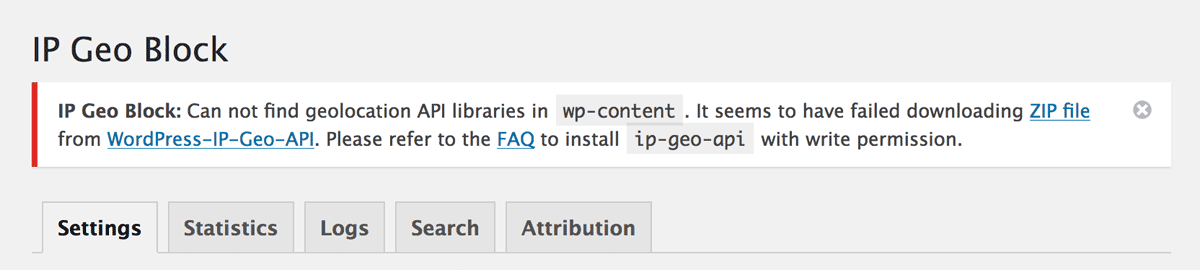
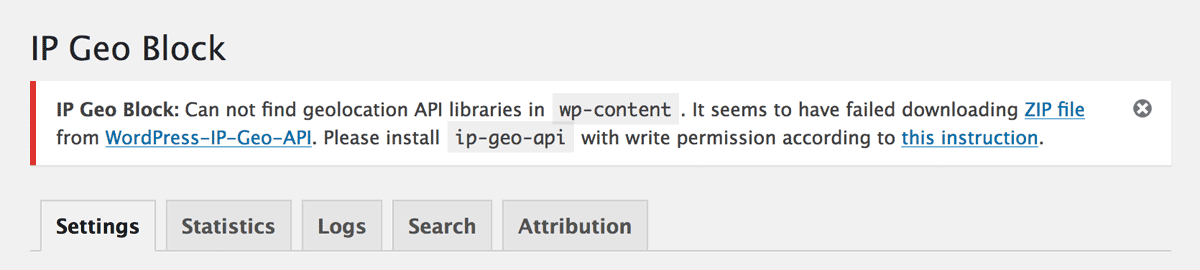
Update codex.

diff --git a/_codex/02. FAQ/04/how-to-fix-permission-troubles.md b/_codex/02. FAQ/04/how-to-fix-permission-troubles.md
@@ -10,40 +10,60 @@ This plugin must have read/write permission at the certain places outside of
 the plugin folder. But in some cases, you might find the error message related 
 to the permission because of your server's security configurations.
 
-When you meet those cases, you have to configure these places by your own hand.
+When you meet those cases, you have to configure something related to the 
+WordPress file system by your own hand.
 
 ### Geolocation API library ###
+
+#### Configuring file system ####
+
+If your host is running under a special installation setup involving symlinks,
+or certain installations with a PHP FTP extension, you'll see the following
+error message when you install and activate this plugin for the first time:
+
+![Error of Filesystem]({{ '/img/2017-06/FilesystemError.png' | prepend: site.baseurl }}
+ "Error of Filesystem"
+)
+
+In this case, as of the instruction in [this document at codex][WP_FILESYS], 
+you have to configure some symbols in your `wp-config.php` something like this:
+
+{% highlight ruby %}
+define( 'FTP_HOST', 'http://example.com/' );
+define( 'FTP_USER', 'username' );
+define( 'FTP_PASS', 'password' );
+{% endhighlight %}
+
+If you have some reasons you can't do this, please follow the next instruction.
+
+#### Installing Geolocation API library ####
+
+When you'll see the following when you jump to the option page of this plugin:
 
 ![Error of IP Geo API]({{ '/img/2016-09/ErrorGeoAPI.png' | prepend: site.baseurl }}
  "Error of IP Geo API"
 )
 
-Although this plugin is designed to work properly without geolocation databases
-for [Maxmind][Maxmind] and [IP2Location][IP2Location] on your server by using 
-3rd party's free REST API services, it is highly recommended to install 
-geolocation API library named [IP-Geo-API][GitGeoAPI] to handle IP address and 
-its country code.
-
-So when you install this plugin for the first time, this plugin would try to 
-install `ip-geo-api` into one of the following folders:
+In this case, you should install `ip-geo-api` that includes geolocation 
+API library named [IP-Geo-API][GitGeoAPI] for [Maxmind][Maxmind] and 
+[IP2Location][IP2Location] under one of the following folders:
 
 1. `/wp-content/`
 2. `/wp-content/uploads/`
 3. `/wp-content/plugins/ip-geo-block/`
 
-But installing `ip-geo-api` could be failed because of the security policy of 
-your server.
-
-In such a case, you can download the [ZIP file][GitGeoAPIZIP] manually and 
-upload `ip-geo-api` in the unzipped folder onto the above 1. or 2. **with 
-proper permission**.
+You can download the [ZIP file][GitGeoAPIZIP] and upload `ip-geo-api` in the 
+unzipped folder onto the above 1. or 2 **with a proper permission** using FTP.
 
 [![IP-Geo-API]({{ '/img/2016-09/GeoLocationAPI.png' | prepend: site.baseurl }}
 )][GitGeoAPI]
 
-The 3. is not recommended. Because at every time this plugin is updated, the 
-geolocation database files will be removed. So in this case, you should move 
-your `ip-geo-api` to 1. or 2.
+<div class="alert alert-info">
+	<strong>Note: </strong>
+	Installing <code>ip-geo-api</code> into 3. is not recommended, because 
+	it will be removed at every time this plugin is updated.
+</div>
+
 
 Here's a final tree view after uploading `ip-geo-api` to 1.
 
@@ -65,8 +85,8 @@ Here's a final tree view after uploading `ip-geo-api` to 1.
 	<strong>NOTE:</strong> Please refer to 
 	"<a href='https://codex.wordpress.org/Hardening_WordPress#Core_Directories_.2F_Files' title='Hardening WordPress &laquo; WordPress Codex'>Hardening WordPress</a>"
 	to give <code>ip-geo-api</code> and the following folders 
-	(<code>ip2location</code> and <code>maxmind</code>) the proper permission
-	that may be <code>755</code> but should be confirmed by consulting your
+	(<code>ip2location</code> and <code>maxmind</code>) a proper permission.
+	It may be <code>755</code> but should be confirmed by consulting your
 	hosting administrator.
 </div>
 
@@ -111,6 +131,7 @@ RewriteRule ^.*\.php$ rewrite.php [L]
 {% endhighlight %}
 
 [IP-Geo-Block]: https://wordpress.org/plugins/ip-geo-block/ "WordPress › IP Geo Block « WordPress Plugins"
+[WP_FILESYS]:   https://codex.wordpress.org/Editing_wp-config.php#WordPress_Upgrade_Constants "Editing wp-config.php &laquo; WordPress Codex"
 [Maxmind]:      https://www.maxmind.com/ "IP Geolocation and Online Fraud Prevention | MaxMind"
 [IP2Location]:  http://www.ip2location.com/ "IP Address Geolocation to Identify Website Visitor's Geographical Location"
 [GitGeoAPI]:    https://github.com/tokkonopapa/WordPress-IP-Geo-API "GitHub - tokkonopapa/WordPress-IP-Geo-API: A class library for WordPress plugin IP Geo Block to handle geolocation database of Maxmind and IP2Location."
